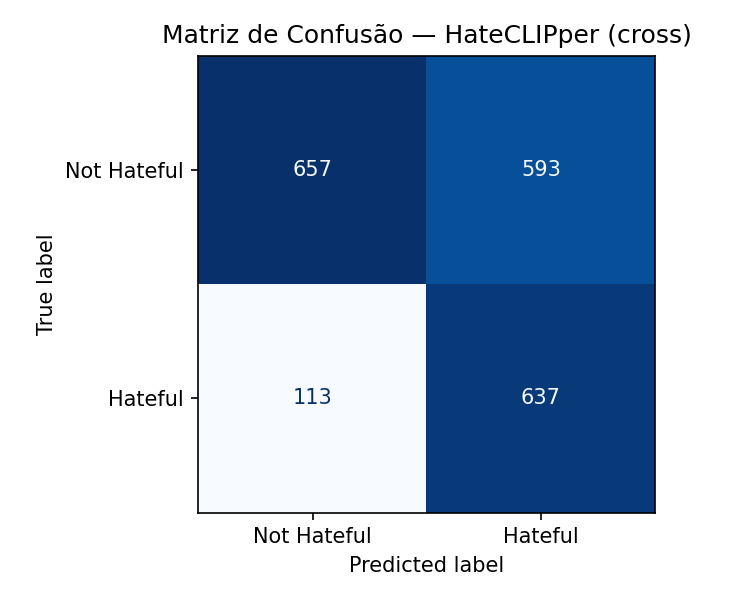
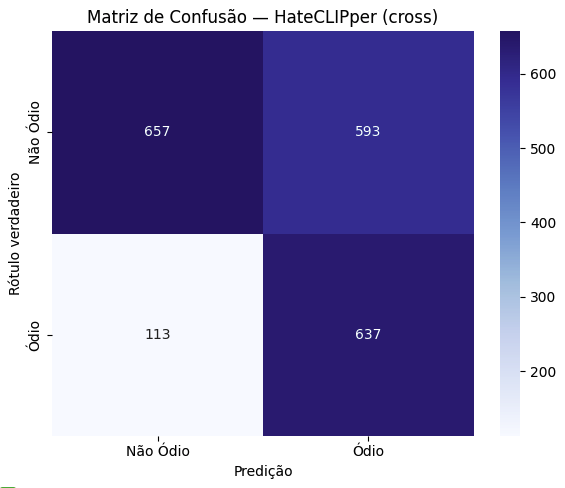
update pdf

diff --git a/latex/cap4resultados.tex b/latex/cap4resultados.tex
@@ -119,7 +119,7 @@ Com a aplicação do Classificador Fuzzy Unificado, a acurácia binarizada mante
 
 \subsection{Experimento 3 — Pipeline Completo}
 
-O HateCLIPper com fusão \textit{cross} (FIM) e limiar ótimo de 0,0119 (determinado por maximização do F1 em \texttt{dev\_seen}) obteve \textbf{AUROC de 0,8121}, \textbf{Acurácia de 75,55\%} e \textbf{F1-Score de 0,6407} em \texttt{test\_unseen}. O modelo demonstrou alta sensibilidade para a classe de ódio (revocação de 0,86, precisão de 0,55) e boa especificidade para não ódio (precisão de 0,87, revocação de 0,58), refletindo o ajuste do limiar para maximizar F1 em detrimento da precisão.
+O HateCLIPper com fusão \textit{cross} (FIM) e limiar ótimo de 0,0119 (determinado por maximização do F1 no conjunto \texttt{dev\_seen}) obteve \textbf{AUROC de 0,8121}, \textbf{Acurácia de 75,55\%} e \textbf{F1-Score de 0,6407} em \texttt{test\_unseen}. Para a classe de ódio, o modelo apresentou alta sensibilidade (revocação de 0,86, precisão de 0,55), para a classe de não ódio, alta especificidade (precisão de 0,87, revocação de 0,58). Em comparação aos experimentos anteriores, o AUROC cresceu de 0,7318 (Experimento~2) para 0,8121, um ganho de aproximadamente 8 pontos percentuais que posiciona o modelo na faixa de desempenho considerada boa para tarefas de classificação difícil. Esse avanço decorre de dois fatores combinados. Primeiro, o \textit{fine-tuning} supervisionado do HateCLIPper sobre o \textit{Hateful Memes Dataset} permite que os pesos do modelo se ajustem à distribuição específica do problema, aprendendo representações discriminativas para ódio que o CLIP pré-treinado não possui. Segundo, o mecanismo de fusão \textit{cross}, baseado em atenção cruzada entre os embeddings visual e textual, permitindo que cada modalidade modele quais aspectos da outra são mais relevantes para a decisão, capturando ativamente a tensão semântica entre imagem e texto que caracteriza os memes de ódio. O limiar de 0,0119, muito abaixo do valor neutro de 0,5, é consequência direta da estratégia de otimização, ao maximizar o F1 no conjunto de validação, o procedimento encontra o ponto de operação que melhor equilibra precisão e revocação para esta distribuição de dados, resultando em um modelo com forte tendência a predizer ódio sempre que houver qualquer sinal positivo, o que explica a revocação de 0,86 e a precisão moderada de 0,55.
 
 \begin{figure}[htbp]
     \centering
@@ -138,16 +138,16 @@ O HateCLIPper com fusão \textit{cross} (FIM) e limiar ótimo de 0,0119 (determi
     \end{minipage}
 \end{figure}
 
-A matriz de confusão da Figura~\ref{fig:exp3_cm} reflete o efeito do limiar baixo (0,0119): o modelo favorece a revocação da classe odiosa, reduzindo falsos negativos ao custo de mais falsos positivos em relação aos experimentos anteriores. A curva ROC da Figura~\ref{fig:exp3_roc} evidencia o melhor poder discriminativo alcançado nos três experimentos.
+A matriz de confusão da Figura~\ref{fig:exp3_cm} reflete diretamente o efeito do limiar baixo (0,0119), ao contrário do Experimento~2, que apresentava poucos falsos positivos e muitos falsos negativos, este experimento inverte a assimetria, o número de falsos positivos aumenta, mas os falsos negativos caem substancialmente. Do ponto de vista da moderação de conteúdo, esse perfil é preferível ao conservadorismo do Experimento~2, uma revocação de 0,86 significa que apenas 14\% dos memes genuinamente odiosos escapam à detecção, enquanto os 45\% de falsos positivos (precisão de 0,55) indicam que praticamente metade das predições de ódio ainda necessitaria de revisão humana. Esse compromisso é típico de sistemas de triagem automatizada, nos quais o objetivo primário é minimizar os casos de ódio não detectados, e os falsos positivos são gerenciados por uma segunda etapa de revisão. A curva ROC da Figura~\ref{fig:exp3_roc} evidencia o melhor poder discriminativo alcançado nos três experimentos, apresentando uma curvatura em direção ao canto superior esquerdo, especialmente na faixa de baixa taxa de falsos positivos, o que indica que o modelo é capaz de identificar os memes mais odiosos com alta confiança. A diferença visual em relação às curvas dos Experimentos~1 e~2 sintetiza a progressão da abordagem proposta, de um classificador aleatório (\textit{zero-shot}) a discriminador funcional (enriquecimento por \textit{clusters}) e, finalmente, a modelo supervisionado com fusão multimodal profunda.
 
 \begin{figure*}[htbp]
     \centering
     \includegraphics[width=\textwidth]{imagens/exp3_exemplos.png}
-    \caption{Exemplos de classificação do Experimento 3. Da esquerda para a direita: verdadeiro positivo, verdadeiro negativo, falso positivo e falso negativo. Imagens do \textit{Hateful Memes Dataset} \cite{ArticleHatefulMemesChallenge2020}.}
+    \caption{Exemplos de classificação do Experimento 3. Imagens do \textit{Hateful Memes Dataset} \cite{ArticleHatefulMemesChallenge2020}.}
     \label{fig:exp3_exemplos}
 \end{figure*}
 
-O estudo de ablação avaliou quatro modos de fusão do HateCLIPper treinados nas mesmas condições. O modo \textit{cross} foi selecionado por apresentar o melhor AUROC de validação e F1 no conjunto de teste. A Tabela~\ref{tab:ablacao_exp3} e a Figura~\ref{fig:exp3_ablacao} apresentam a comparação entre os modos.
+O estudo de ablação avaliou quatro modos de fusão do HateCLIPper treinados nas mesmas condições. Os quatro modos diferem fundamentalmente na forma como combinam os \textit{embeddings} visual e textual produzidos pelos encoders do CLIP. A fusão \textbf{concat} realiza a concatenação direta, tratando as duas modalidades como independentes e delegando ao classificador \textit{downstream} a tarefa de aprender sua interação, é a abordagem mais simples, e também a de pior desempenho (AUROC de 0,7778), pois não modela explicitamente a relação entre os dois modos. A fusão \textbf{align} introduz uma etapa de alinhamento por similaridade cosseno entre os \textit{embeddings} antes da classificação, encorajando representações multimodais coerentes mas sem permitir que uma modalidade modifique seletivamente a outra. A fusão \textbf{cross} implementa o \textit{Feature Interaction Matrix} com atenção cruzada, onde cada \textit{embedding} atende aos elementos do outro, produzindo representações contextualizadas em que a imagem é reinterpretada à luz do texto e vice-versa. É justamente esse mecanismo que melhor captura a justaposição contraditória dos memes de ódio, explicando por que o modo \textit{cross} supera todas as demais configurações (AUROC de 0,8141, F1 macro de 0,6456). A configuração \textbf{align\_concat}, que combina alinhamento e concatenação, apresenta desempenho intermediário (AUROC de 0,7798), sugerindo que a combinação linear de duas estratégias sem interação profunda não é equivalente à atenção cruzada. A Tabela~\ref{tab:ablacao_exp3} e a Figura~\ref{fig:exp3_ablacao} apresentam a comparação completa entre os modos.
 
 \begin{table}[htbp]
 \centering
@@ -173,6 +173,8 @@ align\_concat  & 0,7529 & 0,7798 &    ---  &    --- \\
 \end{figure}
 
 O Sistema Fuzzy Mamdani aplicado sobre os \textit{scores} visuais e textuais independentes do HateCLIPper produziu um limiar ótimo de 7,17 (escala de 0 a 100). 
+
+O Sistema Fuzzy Mamdani aplicado sobre os \textit{scores} visuais e textuais independentes do HateCLIPper produziu um limiar ótimo de 7,17 (escala de 0 a 100). Diferentemente do Classificador Fuzzy Unificado empregado nos experimentos anteriores, que operava diretamente sobre a probabilidade de saída de um único classificador binário, o Sistema Mamdani recebe como entradas dois \textit{scores} contínuos independentes, um do ramo visual e outro do ramo textual, e aplica conjuntos de regras sobre variáveis linguísticas e produz uma saída defuzzificada pelo método do centroide. Isso permite que o sistema capture configurações assimétricas, como alta toxicidade textual com imagem neutra, de forma mais expressiva do que um limiar escalar único sobre uma probabilidade combinada. O valor 7,17 em uma escala de 0 a 100 é notavelmente baixo, coerente com a tendência de alta revocação herdada do modelo base, onde o sistema classifica como ódio efetivo qualquer combinação de \textit{scores} cujo centroide defuzzificado supere esse limiar mínimo. A distribuição das categorias na Figura~\ref{fig:exp3_fuzzy} reflete a consequência direta desse comportamento, a proporção de amostras em \textit{Ambiguidade/Moderado} é substancialmente menor do que nos experimentos anteriores, o que indica que as probabilidades do HateCLIPper são mais polarizadas, o \textit{fine-tuning} supervisionado produziu um modelo cujas saídas tendem a se afastar do centro da escala, tornando as predições mais confiantes e reduzindo a zona de indecisão que dominava o Experimento~1. Comparado ao Classificador Fuzzy Unificado do Experimento~2, o Sistema Mamdani deste experimento mantém o perfil de alta revocação do modelo base, funcionando como uma camada de interpretação gradual que preserva a sensibilidade do HateCLIPper e agrega a expressividade das regras linguísticas para os casos intermediários.
 
 \begin{figure}[htbp]
     \centering